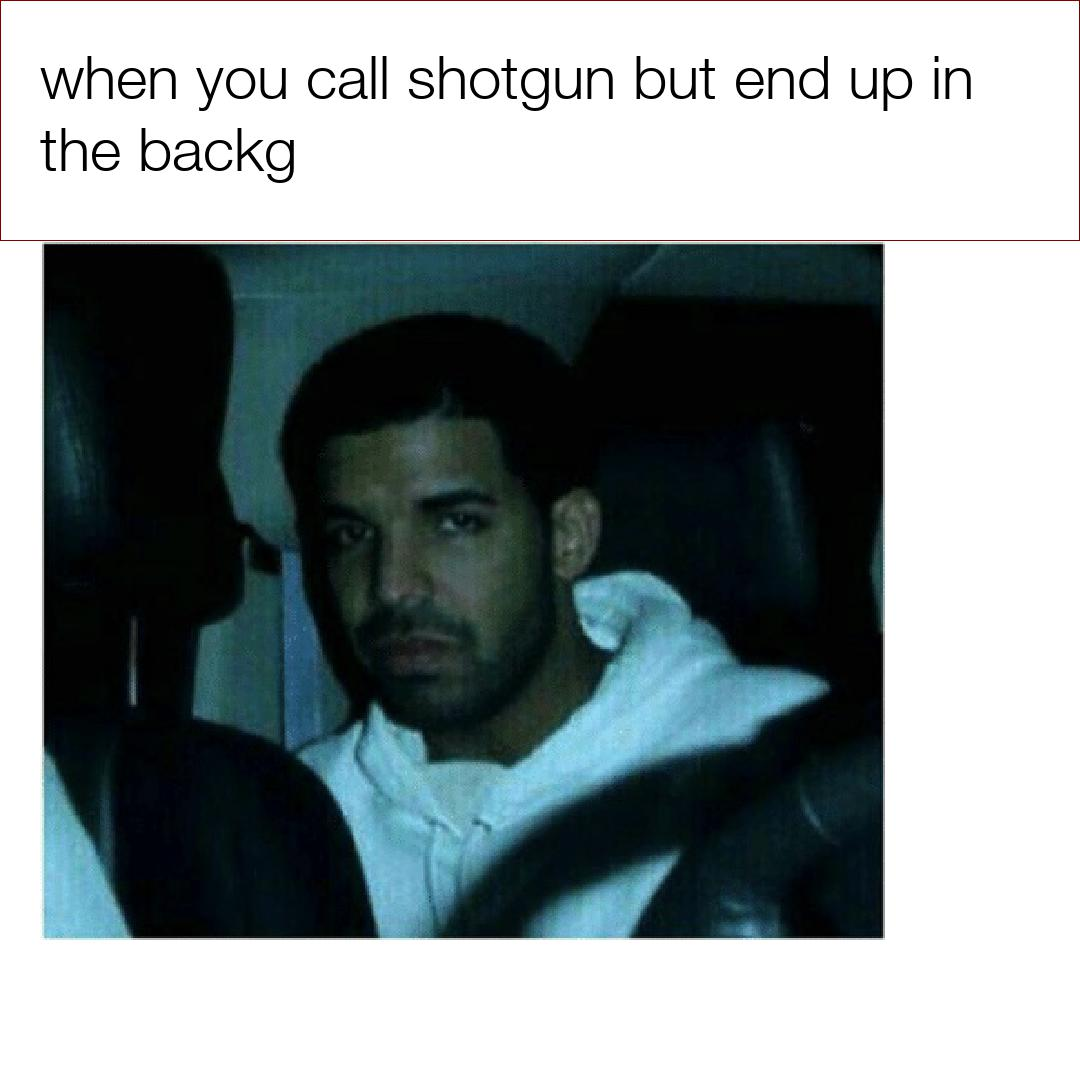
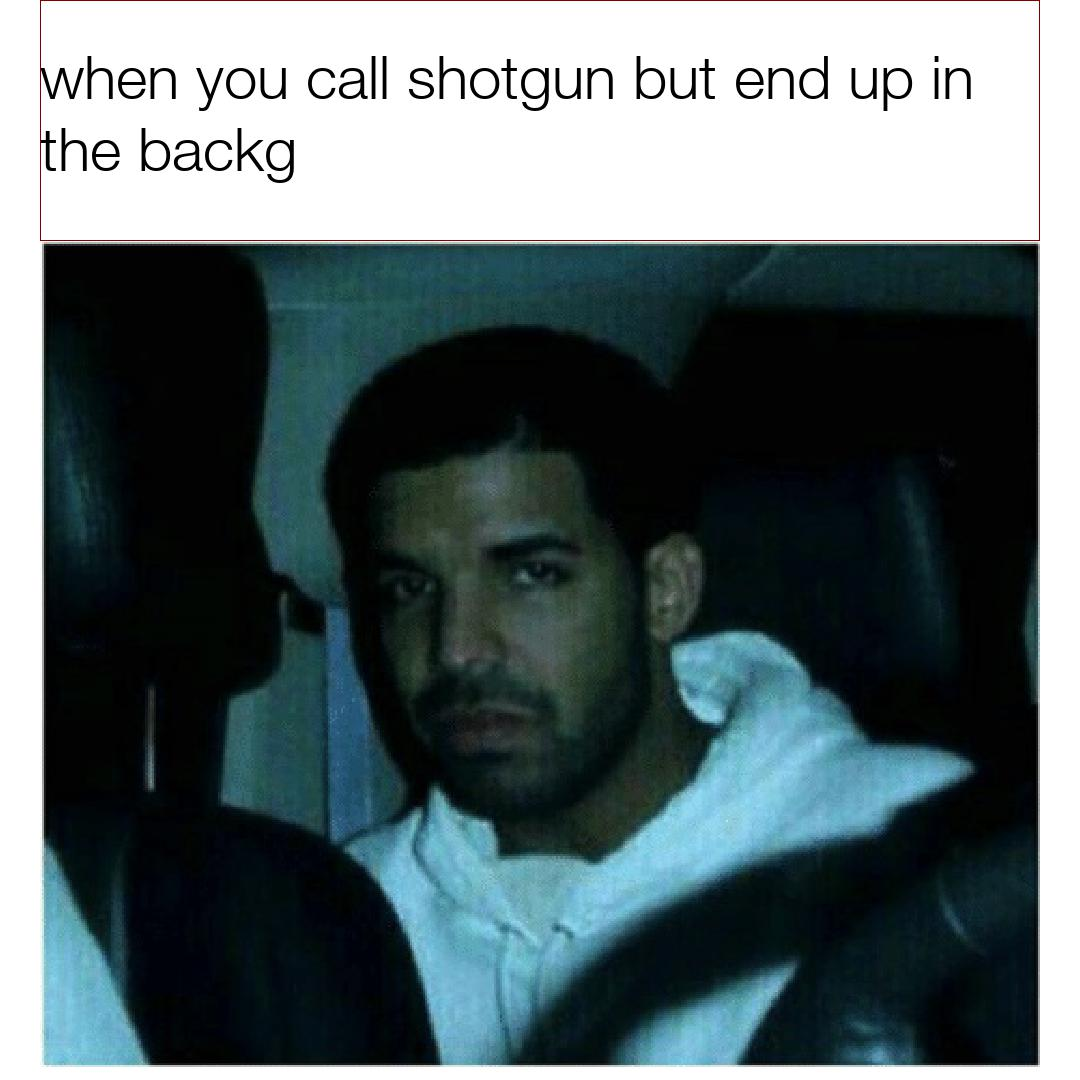
fixed resize_img bug

diff --git a/meme-maker.py b/meme-maker.py
@@ -31,19 +31,20 @@ def delegate_area(text, pic):
 
 def resize_img(image, new_width):
 	bbox = image.getbbox()
+	print "bbox: " + str(bbox)
 	width  = bbox[2]
-	length = bbox[3]
-	aspect_ratio = float(width)/float(length)
-	print "length: " + str(length)
+	height = bbox[3]
+	aspect_ratio = float(width)/float(height)
+	print "height: " + str(height)
 	print "width:  " + str(width)
 	print "aspect ratio: " + str(aspect_ratio) + ":1"
 
-	new_height = int(new_width * aspect_ratio)
+	new_height = int(new_width / aspect_ratio)
 
 	print "new height: " + str(new_height)
 	print "new width:  " + str(new_width)
 
-	image = image.resize((new_height,new_width))
+	image = image.resize((new_width,new_height))
 	return image
 
 def read_txt_file(file_path):
@@ -55,7 +56,7 @@ def read_txt_file(file_path):
 	return data
 
 def paste_pic(pic,img):
-	pic = resize_img(pic, 700)
+	pic = resize_img(pic, 1000)
 	box = (40,240)
 	img.paste(pic, box=box, mask=None)
 
@@ -88,7 +89,7 @@ def main():
 	place_text(background, text, draw)
 	paste_pic(pic,background)
 
-	text_box = [(0,0),(1079,240)]
+	text_box = [(40,0),(1039,240)]
 	draw.rectangle(text_box,fill=None, outline = 128)
 
 	background.save("meme.jpg")
